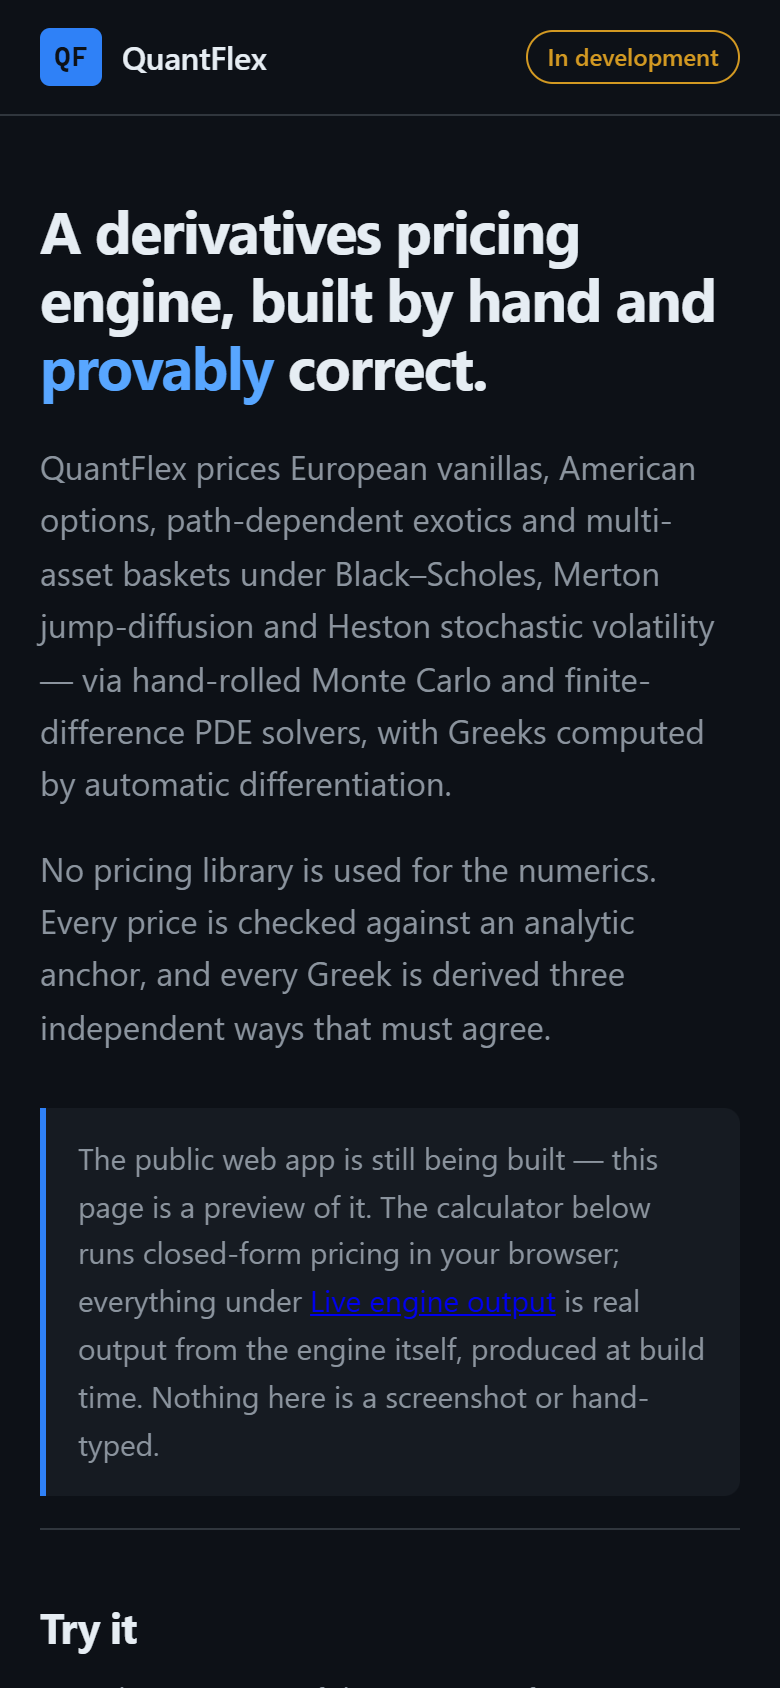
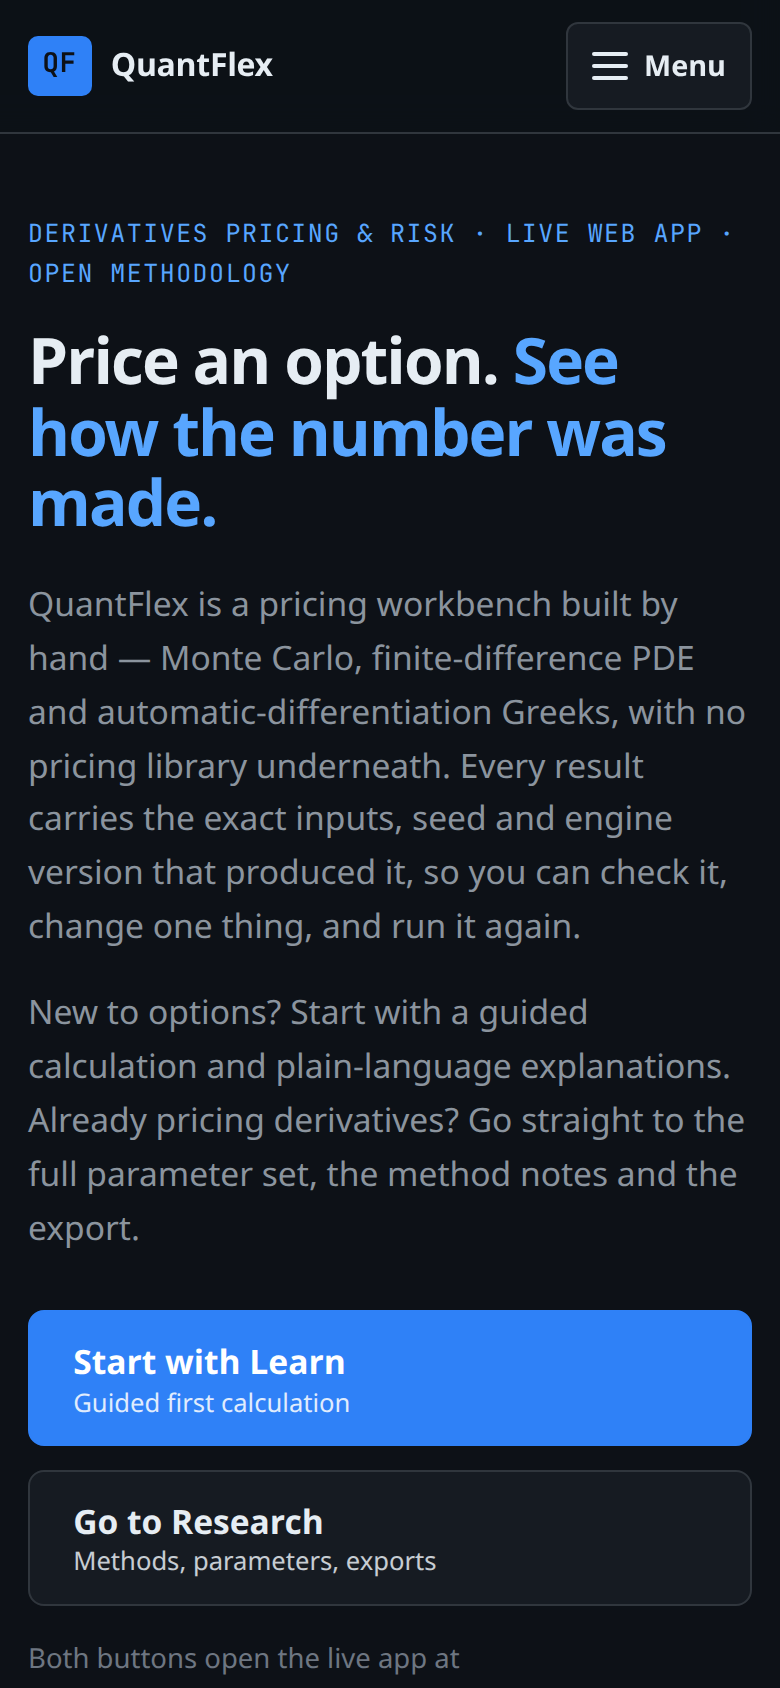
docs: describe the landing accurately and drop stale placeholder wording (EXA-20)
README now describes the two entry paths, the labelled snapshot and the
capability inventory, points at the live app/API instead of calling the
engine repo a placeholder, and refreshes the desktop/390px hero screenshots.
build_feed.py docstring no longer calls this a coming-soon page.

diff --git a/scripts/build_feed.py b/scripts/build_feed.py
@@ -1,4 +1,4 @@
-"""Build the daily finance feed for the QuantFlex coming-soon page.
+"""Build the daily finance feed for the QuantFlex landing page.
 
 Deliberately stdlib-only (urllib + xml.etree) so the scheduled workflow needs no
 `pip install` step and cannot break on a dependency release. Mirrors the source

diff --git a/README.md b/README.md
@@ -1,8 +1,9 @@
 <p align="center"><img src="docs/assets/hero.svg" alt="quantflex-site — the QuantFlex landing page: real engine output, a pricing preview that runs in your browser, and a market feed rebuilt every morning" width="100%"></p>
 
 <p align="center">
-  <b>The public front page of QuantFlex — a derivatives pricing and risk engine.<br>
-  Move the sliders and it prices in your browser; scroll down and the tables are real engine output, hash by hash.</b>
+  <b>The public front page of QuantFlex — a derivatives pricing and risk workbench.<br>
+  Two ways in (Learn for newcomers, Research for practitioners), a calculator that prices in your browser,
+  a labelled engine snapshot, an honest capability inventory, and a market feed rebuilt every morning.</b>
 </p>
 
 <p align="center">
@@ -14,39 +15,59 @@
   <img src="https://img.shields.io/github/stars/ChinmayGit8765/quantflex-site?style=flat-square" alt="Stars">
 </p>
 
-This repo is **only the page and the data it renders**. The engine's public home is
-[ChinmayGit8765/quantflex](https://github.com/ChinmayGit8765/quantflex) — a placeholder
-while that app is built. The Monte Carlo, PDE solver, exotics and AAD Greeks are not
-in this tree.
+This repo is **only the landing page and the data it renders**. The product itself is the
+live web app at [app.quantflex.dev](https://app.quantflex.dev/) with its API at
+[api.quantflex.dev](https://api.quantflex.dev/docs); the engine's public home is
+[ChinmayGit8765/quantflex](https://github.com/ChinmayGit8765/quantflex). The Monte Carlo,
+PDE solver, exotics and AAD Greeks are not in this tree — this page renders a committed
+snapshot of their output and links to where they run.
 
 ## ✨ What it does
 
+- **Gives two distinct ways in.** *Learn* for newcomers (a guided first calculation, plain-language
+  notes, change one input, keep the result) and *Research* for practitioners (methods, models,
+  Greeks with the cross-check shown, reproducible CSV/JSON export, API). Both CTAs point at
+  routes that exist in the deployed app today (`/` and `/methodology`); the dedicated `/learn`
+  and `/research` entry pages are linked only once they are deployed and verified.
+- **Says what works and what doesn't.** *What works today* lists what is in the live app now.
+  *Coming soon* — Excel workbook download, live Excel refresh, platform-specific code export,
+  daily strategy simulations, the strategy-brief assistant, portfolios & risk — is labelled, not
+  clickable, and promises no dates.
 - **Prices options in the visitor's browser.** Six sliders (spot, strike, vol, expiry, rate,
   dividend yield) plus call/put, and the price, five Greeks and the payoff curve recompute on
-  every move — closed-form Black–Scholes, 132 lines of vanilla JS.
+  every move — closed-form Black–Scholes, 132 lines of vanilla JS — with a plain-language
+  glossary and the Black–Scholes assumptions spelled out underneath.
 - **Reports its own error against the engine.** On load the page prices the engine's committed
   base case in the browser and prints the *measured* gap: right now `5.573526022256964` here
   against `5.573526022256971` from the engine — **a difference of 7.1e-15**, computed live, not
   typed in.
-- **Shows five methods on one book.** Spot 100, strike 100, 20% vol, 5% rate, one year priced
-  by closed form, Monte Carlo (262,144 paths), a Crank–Nicolson PDE, Merton jump-diffusion and
-  Heston — each row carrying the `request_hash` that reproduces it.
-- **Shows Greeks derived three independent ways.** A hand-written reverse-mode AAD tape, JAX,
-  and central finite differences with common random numbers, side by side against a *measured*
-  tolerance (1e-9 for delta, 3e-8 for vega) — all five agree.
+- **Shows five methods on one book — labelled as a snapshot.** Spot 100, strike 100, 20% vol,
+  5% rate, one year priced by closed form, Monte Carlo (262,144 paths), a Crank–Nicolson PDE,
+  Merton jump-diffusion and Heston — each row carrying the `request_hash` that reproduces it.
+  A provenance label above the tables states the source, the recording date, the engine version
+  and the parameters, so the figures cannot be mistaken for live quotes.
+- **Shows Greeks with the cross-check visible.** A hand-written reverse-mode AAD tape, central
+  finite differences with common random numbers and — on the machine that produced the
+  snapshot — JAX, side by side against a *measured* tolerance (1e-9 for delta, 3e-8 for vega).
+  A summary line says how many agree and how many ways each was checked; a disagreeing row is
+  highlighted, never hidden. The live API verifies AAD against finite differences (its JAX
+  column is `n/a`), and the page says so rather than claiming universal triple verification.
 - **Rebuilds a market feed every morning.** A cron'd GitHub Action collects up to 30 headlines
   from 8 public RSS/Atom feeds across stocks, crypto and gold, and commits `data/feed.json`
   only if it changed.
 - **Ships with no build step and no dependencies.** Hand-written HTML, one stylesheet, two
   scripts, two JSON files; the only network calls the page makes are two same-origin fetches.
+- **Works for everyone.** Skip link, landmark regions, labelled controls, `aria-pressed` toggles,
+  a keyboard-operable mobile menu (Escape closes it), visible focus rings, and smooth scrolling
+  only when the visitor has not asked for reduced motion. Checked at 390px and desktop.
 
 ## 🎬 See it
 
 <p align="center"><img src="docs/assets/tour.gif" alt="Scroll-through of the QuantFlex landing page: hero, live calculator, engine output tables, Monte Carlo convergence chart and the daily market feed" width="100%"></p>
 
 <table><tr>
-<td width="60%"><img src="docs/assets/home.png" alt="QuantFlex landing page hero on desktop"><br><sub><b>Desktop</b> — the claim up front: built by hand, checked against an analytic anchor, Greeks derived three ways.</sub></td>
-<td width="40%"><img src="docs/assets/home-mobile.png" alt="QuantFlex landing page hero on a phone viewport"><br><sub><b>Mobile</b> — same page, single column, no separate build.</sub></td>
+<td width="60%"><img src="docs/assets/home.png" alt="QuantFlex landing page hero on desktop: two entry buttons, Start with Learn and Go to Research, beside a labelled engine-snapshot card"><br><sub><b>Desktop</b> — two ways in, and one put priced two ways from the labelled snapshot, with the Greeks agreement count.</sub></td>
+<td width="40%"><img src="docs/assets/home-mobile.png" alt="QuantFlex landing page hero on a phone viewport with full-width entry buttons"><br><sub><b>Mobile (390px)</b> — same page, single column, keyboard-operable menu, no separate build.</sub></td>
 </tr></table>
 
 <table><tr>
@@ -107,21 +128,22 @@ interpolated as HTML.
 | --- | --- | --- |
 | **Try it** — price, Greeks, payoff curve | `assets/bs.js`, closed-form Black–Scholes running in your browser | on every slider move |
 | The cross-check line under the calculator | computed at load: browser price vs the engine's price in `demo.json` | on every page load |
-| **Live engine output** — five methods, Greeks, convergence, implied-vol round-trip | `data/demo.json` — real `price()` / `greeks()` calls in the private engine, each row hashed | only when the engine changes (currently engine `0.1.0`, generated 2026‑08‑24) |
+| **Hero snapshot card** — one put by closed form and Monte Carlo, Greeks agreement count | `data/demo.json`, labelled with its recording date and engine version | only when the engine changes |
+| **Engine snapshot** — five methods, Greeks, convergence, implied-vol round-trip | `data/demo.json` — real `price()` / `greeks()` calls in the engine, each row hashed | only when the engine changes (currently engine `0.1.0`, generated 2026‑08‑24) |
 | **Daily market feed** | `data/feed.json` — 8 public syndication feeds via `scripts/build_feed.py` | 06:15 UTC daily, committed by CI if it changed |
-| **Where it stands** roadmap | hand-written in `index.html` | by hand |
+| **What works today / Coming soon** inventory | hand-written in `index.html`, checked against the deployed app's routes and the API's OpenAPI schema | by hand |
 
 `data/demo.json` is a committed snapshot on purpose, not a scheduled job: the engine is
 deterministic under fixed seeds, so the numbers only change when the engine changes. There is
 nothing to refresh daily, and therefore no cross-repo credential to manage. It is produced by
-`scripts/build_site_demo.py` in the private engine repo; regenerate it by running that script
-and copying the result here. Every figure comes from a real engine call and nothing is
-hand-typed.
+`scripts/build_site_demo.py` in the engine repo; regenerate it by running that script and
+copying the result here. Every figure comes from a real engine call and nothing is hand-typed,
+and the page labels it as a recorded snapshot — never as live output.
 
 <details>
 <summary><b>Provenance the page publishes for the engine snapshot</b></summary>
 
-Under *Live engine output → Provenance*, the page prints what produced the numbers:
+Under *Engine snapshot → Provenance*, the page prints what produced the numbers:
 engine `0.1.0`, Python `3.13.7`, NumPy `2.4.6`, the platform string, kernel fingerprints for
 `exp` / `log` / `ndtr` / `erf`, and the first 12 hex of each row's request hash
 (`european-analytic aba62526c8da…`, `european-mc 78fb2b3ace02…`, `american-pde 421281628658…`,
@@ -151,8 +173,8 @@ It is held honest rather than trusted:
   cross-check.
 
 Scope is deliberately narrow: **closed-form European vanillas under GBM**. Monte Carlo, the PDE
-solver, exotics and the AAD Greeks stay server-side in the real engine — that is what
-"coming soon" refers to.
+solver, exotics and the AAD Greeks stay server-side in the engine, which the live app calls
+over HTTP.
 
 ## 🚀 Quick start
 
@@ -171,7 +193,8 @@ stdlib-only.
 ## 🗂 Project layout
 
 ```
-index.html                    the whole page — four sections, no framework
+index.html                    the whole page — hero, Learn/Research paths, Try it, Engine snapshot,
+                              What works today / Coming soon, Daily market feed — no framework
 assets/
   style.css                   design tokens shared with the main app
   bs.js                       closed-form Black–Scholes for the browser preview (132 lines)
@@ -195,35 +218,34 @@ docs/assets/                  README banner, screenshots and scroll GIF
 | Feed collector | Python 3.13 stdlib (`urllib` + `xml.etree`) | No `pip install` in CI, no secrets, immune to dependency releases |
 | Automation | GitHub Actions cron, `contents: write`, commit-if-changed | The only write permission this repo needs |
 | Hosting | GitHub Pages on `main` | Static output, zero infrastructure |
-| Engine (elsewhere) | Python + NumPy, JAX for the Greeks cross-check | Kept private; this page renders its committed output |
+| Engine (elsewhere) | Python + NumPy on Cloud Run; JAX available for the Greeks cross-check where installed | Runs behind the live app and API; this page renders a committed snapshot of its output |
 
-## 🗺 Status & roadmap
+## 🗺 Status
 
-The page itself is live and does what it says. The status below is the **engine's**, mirrored
-from the *Where it stands* section of the page:
+The page is live and does what it says. The capability inventory it publishes (*What works
+today / Coming soon*) is the source of truth for product status and is kept in step with the
+deployed app and API:
 
-- ✅ **Engine core** — closed-form Black–Scholes, chunked Monte Carlo with standard errors,
-  implied-vol solver, reproducible seeded draws
-- ✅ **Greeks** — hand-rolled AAD tape cross-verified against JAX and finite differences, with a
-  payoff-smoothness registry
-- ✅ **Model breadth** — Merton jump-diffusion and Heston stochastic volatility, anchored on
-  characteristic-function references
-- ✅ **American options** — Crank–Nicolson PDE with Rannacher startup, cross-checked against a
-  Longstaff–Schwartz bias sandwich
-- ✅ **Exotics & baskets** — Asian, barrier and lookback payoffs, variance reduction, correlated
-  multi-asset baskets
-- 🚧 **Public API & web app** — pricing endpoints and the browser front end, in progress. This
-  page is the preview of it.
-- 🔜 **Portfolios & risk** — VaR/CVaR with component risk decomposition
+- **In the app today** — pricing workbench (closed form, Monte Carlo, PDE, Longstaff–Schwartz
+  across GBM, Merton and Heston; European/American exercise; Asian, barrier, lookback, basket
+  and spread payoffs), Greeks panel with the finite-difference cross-check, CSV/JSON export and
+  copyable links, Methodology, Roadmap, Market Intel, Daily Rundown, Planner, and the HTTP API
+  (`/price`, `/greeks`, `/price/grid`) documented with OpenAPI.
+- **Coming soon, labelled as such** — dedicated Learn and Research entry pages, Excel workbook
+  download, live Excel refresh, platform-specific code export, daily strategy simulations, the
+  strategy-brief assistant, portfolios & risk. None of these is presented as a working control
+  and no dates are promised.
 
-Watch [ChinmayGit8765/quantflex](https://github.com/ChinmayGit8765/quantflex) for the engine
-release.
+When the app's `/learn` and `/research` routes are deployed and verified, the two hero CTAs and
+the two path-card buttons in `index.html` are the only hrefs to swap (see the comment above the
+hero CTAs).
 
 ## ⚠ Not financial advice
 
 QuantFlex is an engineering and mathematics project. Nothing here is a recommendation to buy or
 sell any instrument, and the market headlines are third-party links reproduced from public
-syndication feeds.
+syndication feeds. QuantFlex does not buy, sell or redistribute market data — no OPRA, no
+options-flow feeds.
 
 ## 📄 License
 
